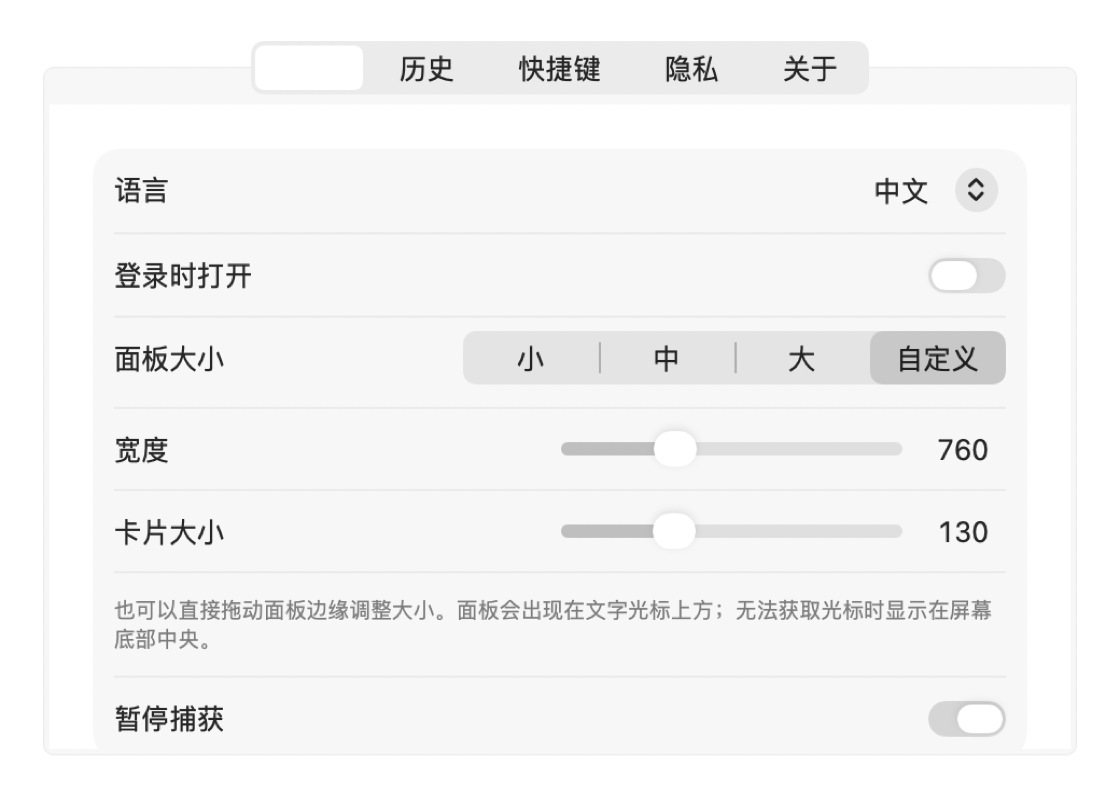
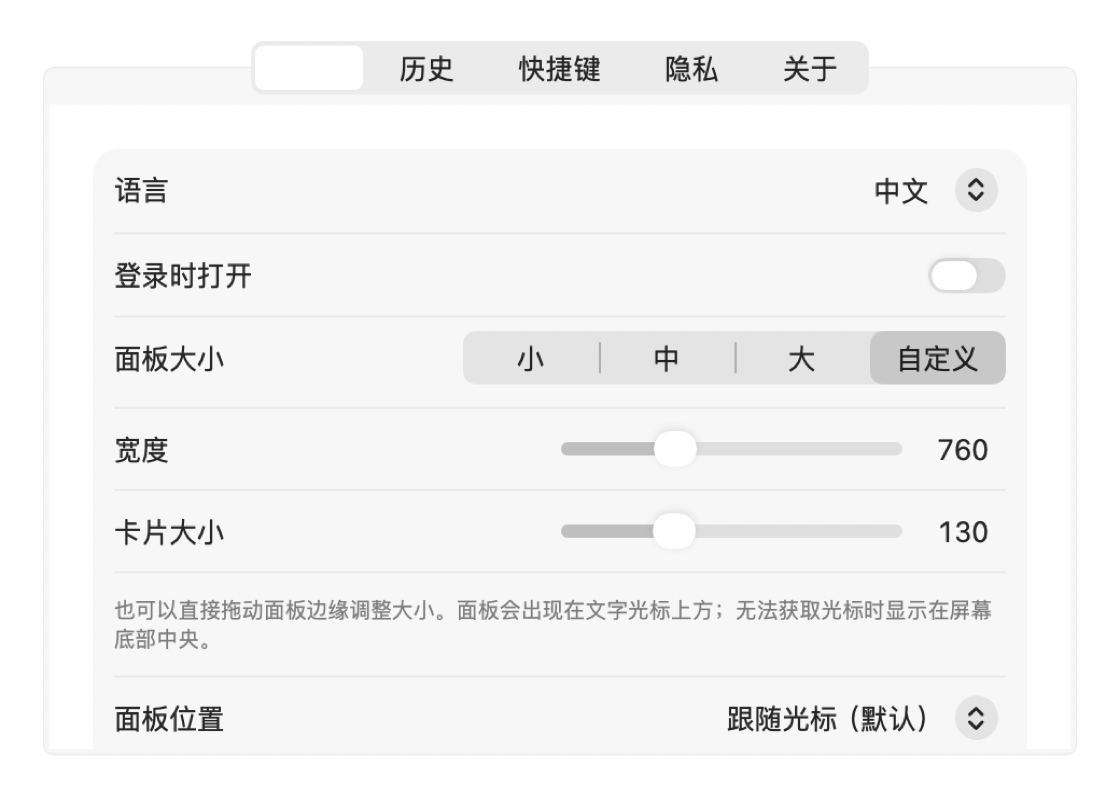
1.2.2: draggable panel, panel position setting

Changed region(s): [[0.625, 0.875, 0.9062, 0.9375], [0.0938, 0.875, 0.2188, 0.9375]]

diff --git a/Sources/Pasting/ClipboardPanelController.swift b/Sources/Pasting/ClipboardPanelController.swift
@@ -300,9 +300,11 @@ final class ClipboardPanelController: NSObject, NSSearchFieldDelegate, NSWindowD
         panel.delegate = self
         panel.minSize = NSSize(width: 380, height: PanelPlacement.height(forCard: 90))
         panel.maxSize = NSSize(width: 1600, height: PanelPlacement.height(forCard: 220))
+        // Explicit drag regions only (isMovableByWindowBackground would also let SwiftUI cards drag the window).
+        panel.isMovableByWindowBackground = false
         panel.collectionBehavior = [.canJoinAllSpaces, .fullScreenAuxiliary, .transient]
 
-        let fx = NSVisualEffectView(frame: panel.contentRect(forFrameRect: panel.frame))
+        let fx = DraggableEffectView(frame: panel.contentRect(forFrameRect: panel.frame))
         fx.autoresizingMask = [.width, .height]
         fx.material = .hudWindow
         fx.blendingMode = .behindWindow
@@ -348,12 +350,21 @@ final class ClipboardPanelController: NSObject, NSSearchFieldDelegate, NSWindowD
         hosting.wantsLayer = true
         hosting.layer?.backgroundColor = .clear
 
+        let grabber = GrabberView()
+        grabber.translatesAutoresizingMaskIntoConstraints = false
+        grabber.toolTip = L("拖动以移动")
+        grabber.onDragEnd = { [weak self] in self?.userMovedPanel() }
+        fx.addSubview(grabber)
         fx.addSubview(search)
         fx.addSubview(plain)
         fx.addSubview(close)
         fx.addSubview(hosting)
         NSLayoutConstraint.activate([
-            search.topAnchor.constraint(equalTo: fx.topAnchor, constant: 8),
+            grabber.topAnchor.constraint(equalTo: fx.topAnchor, constant: 0),
+            grabber.centerXAnchor.constraint(equalTo: fx.centerXAnchor),
+            grabber.widthAnchor.constraint(equalToConstant: 80),
+            grabber.heightAnchor.constraint(equalToConstant: 10),
+            search.topAnchor.constraint(equalTo: fx.topAnchor, constant: 10),
             search.leadingAnchor.constraint(equalTo: fx.leadingAnchor, constant: 12),
             search.trailingAnchor.constraint(equalTo: plain.leadingAnchor, constant: -8),
             plain.centerYAnchor.constraint(equalTo: search.centerYAnchor),
@@ -426,6 +437,12 @@ final class ClipboardPanelController: NSObject, NSSearchFieldDelegate, NSWindowD
         let st = Store.shared.settings
         model.cardSize = st.effectiveCardSize
         let size = NSSize(width: st.effectivePanelWidth, height: PanelPlacement.height(forCard: st.effectiveCardSize))
+        if st.remembersPanelPosition, let o = st.panelOrigin, o.count == 2 {
+            let f = Self.clampToScreens(NSRect(origin: NSPoint(x: o[0], y: o[1]), size: size))
+            isPositioning = true; panel.setFrame(f, display: false); isPositioning = false
+            AppLog.info("Panel placed: remembered frame=\(Int(f.minX)),\(Int(f.minY)) \(Int(f.width))x\(Int(f.height))")
+            return
+        }
         let caret = PanelPlacement.caretRect()
         let mouse = NSEvent.mouseLocation
         let fallbackScreen = NSScreen.screens.first(where: { NSMouseInRect(mouse, $0.frame, false) }) ?? NSScreen.main
@@ -439,6 +456,42 @@ final class ClipboardPanelController: NSObject, NSSearchFieldDelegate, NSWindowD
     }
 
     private var isPositioning = false
+
+    /// Keep a rect fully on the visible screen it overlaps most (or the main screen).
+    static func clampToScreens(_ r: NSRect, screens: [NSRect] = NSScreen.screens.map(\.visibleFrame)) -> NSRect {
+        let best = screens.max { a, b in
+            let ia = a.intersection(r), ib = b.intersection(r)
+            return (ia.isNull ? 0 : ia.width * ia.height) < (ib.isNull ? 0 : ib.width * ib.height)
+        } ?? r
+        let target = best.intersects(r) ? best : (screens.first ?? r)
+        var f = r
+        f.size.width = min(f.width, target.width); f.size.height = min(f.height, target.height)
+        f.origin.x = min(max(f.minX, target.minX), target.maxX - f.width)
+        f.origin.y = min(max(f.minY, target.minY), target.maxY - f.height)
+        return f
+    }
+
+    /// User dragged the panel (background or grabber). Persist only in "remember" mode.
+    func windowDidMove(_ notification: Notification) {
+        guard !isPositioning, isVisible else { return }
+        userMovedPanel()
+    }
+
+    /// Test: does a mouse-down at this window point start a window drag?
+    func testCanDrag(at p: NSPoint) -> (Bool, String) {
+        guard let root = panel?.contentView, let v = root.hitTest(root.superview?.convert(p, from: nil) ?? p) else { return (false, "nil") }
+        return (v is DraggableEffectView || v is GrabberView || v is DragAreaView, String(describing: type(of: v)))
+    }
+    func testMoveAsUser(to p: NSPoint) { panel?.setFrameOrigin(p) }   // goes through windowDidMove like a real drag
+    var testFrame: NSRect { panel?.frame ?? .zero }
+
+    func userMovedPanel() {
+        guard let panel, !isPositioning else { return }
+        let f = Self.clampToScreens(panel.frame)
+        if f.origin != panel.frame.origin { isPositioning = true; panel.setFrameOrigin(f.origin); isPositioning = false }
+        if Store.shared.settings.remembersPanelPosition { Store.shared.setPanelOrigin(f.origin) }
+        AppLog.info("Panel moved by user to \(Int(f.minX)),\(Int(f.minY)) (remember=\(Store.shared.settings.remembersPanelPosition))")
+    }
 
     // User drag-resize: persist width; height maps to card size.
     func windowDidResize(_ notification: Notification) { panel?.invalidateShadow() }
@@ -605,4 +658,30 @@ final class KeyablePanel: NSPanel {
 final class TransparentView: NSView {
     override var isOpaque: Bool { false }
     override func draw(_ dirtyRect: NSRect) {}
+}
+
+
+/// Root vibrancy view; empty areas (margins, top bar gaps) drag the window.
+final class DraggableEffectView: NSVisualEffectView {
+    override var mouseDownCanMoveWindow: Bool { true }
+    override func mouseDown(with event: NSEvent) {
+        window?.performDrag(with: event)
+        ClipboardPanelController.shared.userMovedPanel()
+    }
+}
+
+/// Subtle pill at top center; dragging it moves the panel.
+final class GrabberView: NSView {
+    var onDragEnd: (() -> Void)?
+    override var mouseDownCanMoveWindow: Bool { true }
+    override func draw(_ dirtyRect: NSRect) {
+        let pill = NSRect(x: bounds.midX - 18, y: bounds.midY - 2, width: 36, height: 4)
+        NSColor.tertiaryLabelColor.setFill()
+        NSBezierPath(roundedRect: pill, xRadius: 2, yRadius: 2).fill()
+    }
+    override func resetCursorRects() { addCursorRect(bounds, cursor: .openHand) }
+    override func mouseDown(with event: NSEvent) {
+        window?.performDrag(with: event)   // returns after the drag ends
+        onDragEnd?()
+    }
 }

diff --git a/Sources/Pasting/TestMode.swift b/Sources/Pasting/TestMode.swift
@@ -36,6 +36,7 @@ enum TestMode {
             }
             if CommandLine.arguments.contains("scrolltest") { runScrollTest() }
             if CommandLine.arguments.contains("favtest") { runFavTest() }
+            if CommandLine.arguments.contains("dragtest") { runDragTest() }
             if CommandLine.arguments.contains("cornertest") {
                 Store.shared.replaceAllForTest(makeSynthetic(count: 20, images: 0))
                 let c = ClipboardPanelController.shared
@@ -168,6 +169,48 @@ enum TestMode {
         let ok = !log.contains { $0.contains("false") } && s1 == 1 && s2 == 1 && s3 == 1 && s4 == 0
         AppLog.info("FAVTEST " + log.joined(separator: " | ") + " | " + (ok ? "PASS" : "FAIL"))
         c.hide()
+    }
+
+    static func runDragTest() {
+        let st = Store.shared
+        st.replaceAllForTest(makeSynthetic(count: 2, images: 0))
+        let c = ClipboardPanelController.shared
+        var log: [String] = []
+        // Hit-testing: grabber / top-bar gap / margin drag; search, button, card don't.
+        c.show(); RunLoop.main.run(until: Date().addingTimeInterval(0.4))
+        let f = c.testFrame, w = f.width, h = f.height
+        let probes: [(String, NSPoint, Bool)] = [
+            ("grabber", NSPoint(x: w / 2, y: h - 4), true),
+            ("leftMargin", NSPoint(x: 4, y: h - 22), true),
+            ("search", NSPoint(x: 60, y: h - 24), false),
+            ("closeBtn", NSPoint(x: w - 20, y: h - 24), false),
+            ("card", NSPoint(x: 60, y: 50), false),
+            ("betweenCards", NSPoint(x: 12 + c.model.cardSize + 4, y: 50), true),
+            ("emptyCardRow", NSPoint(x: w - 40, y: 50), true),
+            ("chip", NSPoint(x: 30, y: h - 50), false),
+        ]
+        var hitOK = true
+        for (n, p, want) in probes {
+            let (can, v) = c.testCanDrag(at: p)
+            log.append("\(n)=\(can)(\(v))"); if can != want { hitOK = false }
+        }
+        // Caret mode: user move is not persisted, panel stays open.
+        st.setPanelPositionMode(remember: false)
+        c.testMoveAsUser(to: NSPoint(x: f.minX + 50, y: f.minY + 40))
+        let caretNotSaved = st.settings.panelOrigin == nil && c.isVisible
+        // Remember mode: persisted, restored on next show.
+        st.setPanelPositionMode(remember: true)
+        c.testMoveAsUser(to: NSPoint(x: f.minX + 70, y: f.minY + 60))
+        let saved = st.settings.panelOrigin
+        c.hide(); c.show(); RunLoop.main.run(until: Date().addingTimeInterval(0.2))
+        let restored = saved.map { abs(c.testFrame.minX - $0[0]) < 1 && abs(c.testFrame.minY - $0[1]) < 1 } ?? false
+        // Off-screen drag is clamped to visible screens.
+        c.testMoveAsUser(to: NSPoint(x: -5000, y: -5000))
+        let vf = NSScreen.screens.map(\.visibleFrame)
+        let clamped = vf.contains { $0.contains(c.testFrame) }
+        c.hide(); st.setPanelPositionMode(remember: false)
+        let ok = hitOK && caretNotSaved && restored && clamped
+        AppLog.info("DRAGTEST " + log.joined(separator: " ") + " | caretNotSaved=\(caretNotSaved) remembered=\(saved ?? []) restored=\(restored) clamped=\(clamped) \(c.testFrame) | " + (ok ? "PASS" : "FAIL"))
     }
 
     static func runResources() {

diff --git a/Sources/Pasting/PanelViews.swift b/Sources/Pasting/PanelViews.swift
@@ -29,6 +29,7 @@ struct PanelContentView: View {
             tabBar
             cards
         }
+        .background(WindowDragArea())   // empty space anywhere drags the panel
     }
 
     private var tabBar: some View {
@@ -64,6 +65,7 @@ struct PanelContentView: View {
                     }
                 }
                 .padding(.leading, 12).padding(.trailing, 4)
+                .background(WindowDragArea())
             }
             Menu {
                 let rest = Array(model.appStats.dropFirst(5))
@@ -108,7 +110,9 @@ struct PanelContentView: View {
                     .frame(maxWidth: .infinity, maxHeight: .infinity)
                     .contentShape(Rectangle())
                     .contextMenu { Button(L("新建收藏…")) { actions.newFavorite() } }
+                    .background(WindowDragArea())
             } else {
+                GeometryReader { geo in
                 ScrollViewReader { proxy in
                     ScrollView(.horizontal, showsIndicators: false) {
                         LazyHStack(alignment: .center, spacing: 8) {
@@ -133,12 +137,15 @@ struct PanelContentView: View {
                         }
                         .padding(.horizontal, 12)
                         .padding(.vertical, 6)
+                        .frame(minWidth: geo.size.width, minHeight: geo.size.height, alignment: .leading)
+                        .background(WindowDragArea())   // gaps between/around cards + empty row area
                         .animation(quick, value: model.items.map(\.id))
                     }
                     .onChange(of: model.selectedIndex) { _, idx in
                         guard model.items.indices.contains(idx) else { return }
                         proxy.scrollTo(model.items[idx].id)   // no animation: arrows feel instant
                     }
+                }
                 }
             }
         }
@@ -345,5 +352,21 @@ struct CardView: View, Equatable {
                 Text(item.colorHex ?? "").font(.system(size: 11, design: .monospaced))
             }
         }
+    }
+}
+
+
+/// Transparent AppKit view placed behind SwiftUI content: a mouse-down on empty space
+/// (nothing interactive on top) drags the window. Cards/chips/buttons still get their own clicks.
+struct WindowDragArea: NSViewRepresentable {
+    func makeNSView(context: Context) -> DragAreaView { DragAreaView() }
+    func updateNSView(_ v: DragAreaView, context: Context) {}
+}
+
+final class DragAreaView: NSView {
+    override var mouseDownCanMoveWindow: Bool { true }
+    override func mouseDown(with event: NSEvent) {
+        window?.performDrag(with: event)
+        ClipboardPanelController.shared.userMovedPanel()
     }
 }

diff --git a/Sources/Pasting/L10n.swift b/Sources/Pasting/L10n.swift
@@ -46,7 +46,7 @@ final class L10n: ObservableObject {
         "收藏": "Favorites", "取消收藏": "Remove from Favorites", "加入收藏": "Add to Favorites", "编辑…": "Edit…", "新建收藏…": "New Favorite…", "新建收藏": "New Favorite", "编辑收藏": "Edit Favorite",
         "标题（可选）": "Title (optional)", "显示在卡片上的名字": "Name shown on the card", "内容": "Content", "保存": "Save",
         "ⓘ 编辑内容会把富文本转成纯文本": "ⓘ Editing the content converts rich text to plain text", "图片和文件只能修改标题。": "Images and files: only the title can be edited.",
-        "手动添加": "Manual", "收藏 / 取消收藏": "Add / Remove Favorite", "收藏 (⌘D)": "Add to Favorites (⌘D)", "取消收藏 (⌘D)": "Remove from Favorites (⌘D)",
+        "手动添加": "Manual", "面板位置": "Panel position", "跟随光标（默认）": "Follow cursor (default)", "记住上次拖动的位置": "Remember last dragged position", "拖动面板顶部的空白处即可移动面板。": "Drag an empty area at the top of the panel to move it.", "拖动以移动": "Drag to move", "收藏 / 取消收藏": "Add / Remove Favorite", "收藏 (⌘D)": "Add to Favorites (⌘D)", "取消收藏 (⌘D)": "Remove from Favorites (⌘D)",
         "清空": "Clear", "取消": "Cancel", "确定": "OK",
         // Panel
         "未知": "Unknown", "重命名": "Rename", "新建分类": "New Pinboard", "例如：工作、Travel": "e.g. Work, Travel",

diff --git a/Sources/Pasting/SettingsWindow.swift b/Sources/Pasting/SettingsWindow.swift
@@ -31,6 +31,7 @@ struct SettingsView: View {
             Toggle(L("登录时打开"), isOn: Binding(get: { Store.shared.settings.openAtLogin },
                                                 set: { Store.shared.setOpenAtLogin($0) }))
             PanelSizeSettings()
+            PanelPositionPicker()
             Toggle(L("暂停捕获"), isOn: Binding(get: { Store.shared.settings.capturingPaused },
                                               set: { Store.shared.setCapturingPaused($0) }))
         }
@@ -132,6 +133,21 @@ struct LanguagePicker: View {
             Text(L("跟随系统")).tag(L10n.Choice.system)
             Text("中文").tag(L10n.Choice.zh)
             Text("English").tag(L10n.Choice.en)
+        }
+    }
+}
+
+struct PanelPositionPicker: View {
+    @ObservedObject var store = Store.shared
+    @ObservedObject var l10n = L10n.shared
+    var body: some View {
+        VStack(alignment: .leading, spacing: 4) {
+            Picker(L("面板位置"), selection: Binding(get: { store.settings.remembersPanelPosition },
+                                                 set: { Store.shared.setPanelPositionMode(remember: $0) })) {
+                Text(L("跟随光标（默认）")).tag(false)
+                Text(L("记住上次拖动的位置")).tag(true)
+            }
+            Text(L("拖动面板顶部的空白处即可移动面板。")).font(.caption).foregroundColor(.secondary)
         }
     }
 }

diff --git a/Sources/Pasting/Store.swift b/Sources/Pasting/Store.swift
@@ -313,6 +313,13 @@ final class Store: ObservableObject {
         scheduleSave()
         NotificationCenter.default.post(name: Store.panelSizeChanged, object: nil)
     }
+    func setPanelPositionMode(remember: Bool) {
+        settings.panelPosition = remember ? "remember" : "caret"
+        scheduleSave()
+        AppLog.info("Panel position mode: \(remember ? "remember" : "caret")")
+    }
+    func setPanelOrigin(_ p: NSPoint) { settings.panelOrigin = [Double(p.x), Double(p.y)]; scheduleSave() }
+
     static let panelSizeChanged = Notification.Name("PastingPanelSizeChanged")
 
     func setIgnoreConcealed(_ on: Bool) { settings.ignoreConcealed = on; scheduleSave() }

diff --git a/Sources/Pasting/Models.swift b/Sources/Pasting/Models.swift
@@ -146,6 +146,10 @@ struct AppSettings: Codable, Equatable {
     var ignoreConcealed: Bool?
     var ignoredApps: [String]?
     var panelWidth: Double?
+    /// "caret" (default) or "remember".
+    var panelPosition: String?
+    var panelOrigin: [Double]?
+    var remembersPanelPosition: Bool { panelPosition == "remember" }
     var cardSize: Double?
     var effectivePanelWidth: CGFloat { CGFloat(panelWidth ?? 560) }
     var effectiveCardSize: CGFloat { CGFloat(cardSize ?? 120) }

diff --git a/Sources/Pasting/PanelPlacement.swift b/Sources/Pasting/PanelPlacement.swift
@@ -2,7 +2,7 @@ import AppKit
 import ApplicationServices
 
 enum PanelPlacement {
-    static let chromeHeight: CGFloat = 62          // search bar + tabs + paddings
+    static let chromeHeight: CGFloat = 64          // search bar + tabs + paddings
     static func height(forCard card: CGFloat) -> CGFloat { card + chromeHeight }
 
     /// Caret rect of the focused text element in the frontmost app, in Cocoa (bottom-left) coordinates.

diff --git a/docs/SYSTEM_DESIGN.md b/docs/SYSTEM_DESIGN.md
@@ -39,6 +39,7 @@ flowchart LR
 | HotKeyManager | `HotKey.swift` | Carbon `RegisterEventHotKey` for ⇧⌘V, which needs no Input Monitoring permission. |
 | ClipboardPanelController | `ClipboardPanelController.swift` | Pre-created `NSPanel` subclass (`.nonactivatingPanel`, `canBecomeKey = true`). The top bar (search field, plain-text button, close) is AppKit for reliable focus. Keyboard is handled by a local monitor (←/→, ↵, ⌥↵, Esc, ⌘-edit keys), and wheel events are mapped to horizontal scrolling. |
 | PanelViews | `PanelViews.swift`, `PanelModel.swift` | SwiftUI tabs, app chips, ">" menu and an `Equatable` card row in a `LazyHStack`. State lives in an `ObservableObject` rather than `@State`, because the CLT toolchain lacks SwiftUI macro plugins. |
+| Window dragging | `ClipboardPanelController.swift`, `PanelViews.swift` | These views call `window.performDrag(with:)` on mouse-down: `DraggableEffectView` (the root vibrancy view, covering margins and top-bar gaps), `GrabberView` (a pill at the top center) and `DragAreaView` (a `NSViewRepresentable` behind the SwiftUI tab row and card row; the card row is stretched to the viewport width). `isMovableByWindowBackground` stays off so cards and chips never start a window drag. `windowDidMove` saves the origin when *Panel position* is *remember*. The saved origin is clamped to the screen's visible frame on save and on show. |
 | Wheel routing | `ClipboardPanelController.handleScroll` | A local `scrollWheel` monitor hit-tests the horizontal `NSScrollView`s (chips row, card row) at the event location and moves the one under the cursor. Elsewhere it defaults to the card row. Vertical deltas become horizontal; horizontal swipes pass through. |
 | PanelPlacement | `PanelPlacement.swift` | Caret rect via `AXFocusedUIElement → AXSelectedTextRange → AXBoundsForRange` (150 ms messaging timeout), converted from AX top-left to Cocoa coordinates. The panel goes 8 pt above the caret, horizontally centered and clamped, or below if there's no room. Falls back to bottom center. |
 | Paster | `Paster.swift` | Writes the item to the pasteboard (plain-text mode writes only `.string`), reactivates the previous app, and posts ⌘V via `CGEvent` at HID level. Requires Accessibility. |

diff --git a/README.md b/README.md
@@ -20,6 +20,7 @@ No iCloud, no account, no network. Everything stays in `~/Library/Application Su
 - **Add your own favorites**: the **+** next to *Favorites*, *New Favorite…* in the **>** menu, or right-click an empty Favorites tab. Titles and edited content are searchable.
 - **Pinboards** (e.g. *Work*, *Travel*), plus **rename** and **delete**, all from the right-click menu.
 - **History retention**: 1 day / **7 days (default)** / 30 days / forever, plus a max-items cap. Favorites and pinboard items are never auto-deleted.
+- **Movable panel**: drag any empty area (or the grabber at the top) to move it. *Settings → Panel position* chooses between following the cursor (default) and remembering the last dragged position.
 - **Resizable panel**: Small / Medium / Large presets, sliders, or drag the edges.
 - **Animated first-run guide**, a **Settings** window, and **English / 简体中文** (follows the system language by default; switch instantly).
 - **Accessibility drag helper**: drag the Pasting icon straight into System Settings' Accessibility list; it confirms when access is granted.

diff --git a/README_zh-CN.md b/README_zh-CN.md
@@ -20,6 +20,7 @@
 - **手动添加收藏**：点「收藏」旁的 **+**、在 **>** 菜单里选「新建收藏…」，或在空的收藏页右键。标题和编辑后的内容都能被搜索到。
 - **分类**（如 Work、Travel）、**重命名**、**删除**，都在右键菜单里。
 - **历史保留**：1 天 / **7 天（默认）** / 30 天 / 永久，另有最多条数上限。收藏和分类里的条目不会被自动删除。
+- **可拖动的面板**：在任意空白处（或顶部的小横条）按住拖动即可移动面板。「设置 → 面板位置」可以选择跟随光标（默认）或记住上次拖动的位置。
 - **可调整面板大小**：小 / 中 / 大预设、滑块，或直接拖动边缘。
 - 带动画的**首次使用引导**、**设置**窗口，支持 **English / 简体中文**（默认跟随系统语言，切换立即生效）。
 - **辅助功能拖拽助手**：把 Pasting 图标直接拖进「系统设置」的辅助功能列表，授权成功后会自动提示。

diff --git a/CHANGELOG.md b/CHANGELOG.md
@@ -4,6 +4,12 @@ All notable changes to this project are documented here.
 The format is based on [Keep a Changelog](https://keepachangelog.com/en/1.1.0/),
 and this project adheres to [Semantic Versioning](https://semver.org/spec/v2.0.0.html).
 
+## [1.2.2] - 2026-10-12
+
+### Added
+- **Movable panel**: press and drag any empty area to move the panel. That includes the grabber pill at the top center, the top-bar gaps, the margins, the space between and around cards, and the empty part of the card row. Cards, chips, buttons, stars and the search field keep their own behavior.
+- **Settings → General → Panel position**: *Follow cursor (default)* or *Remember last dragged position*. In remember mode the dragged position is saved and restored, clamped to the visible screens. In follow-cursor mode a drag only moves the panel for the current showing.
+
 ## [1.2.1] - 2026-10-12
 
 ### Fixed
